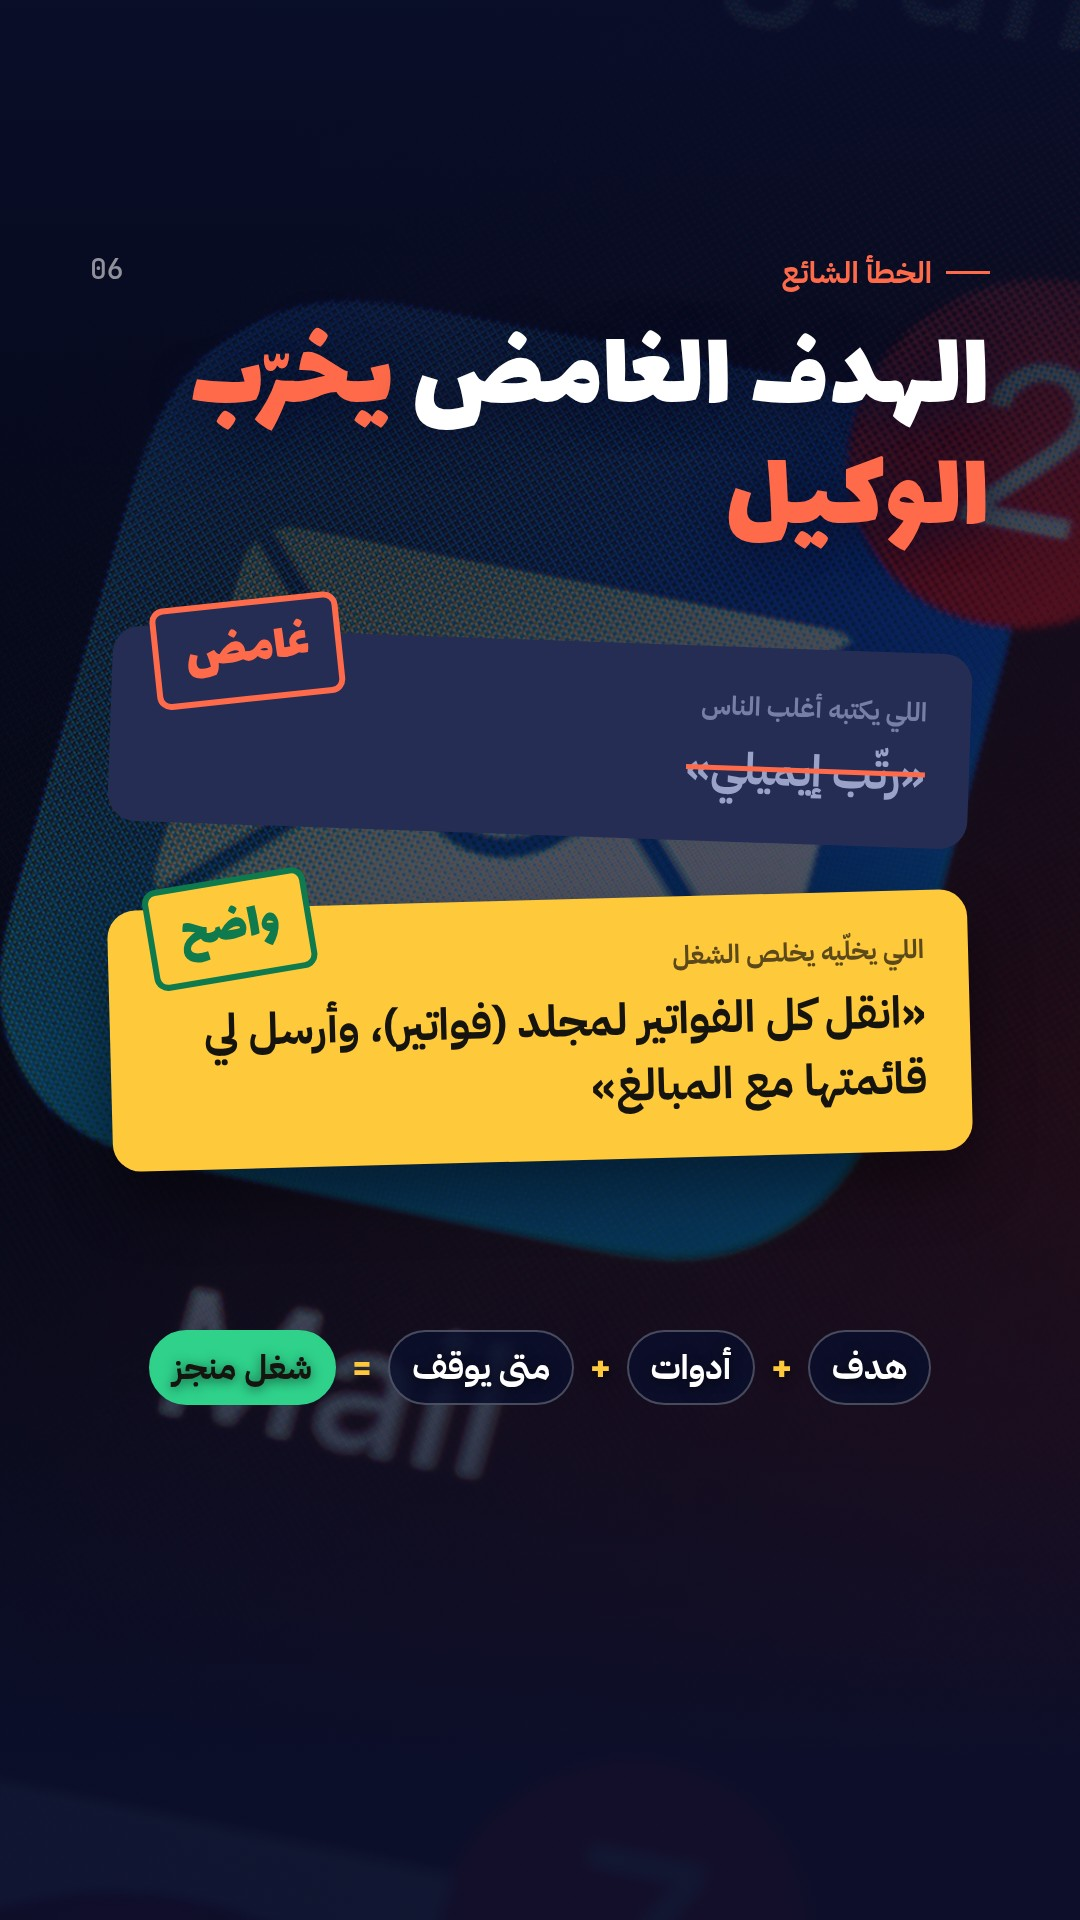
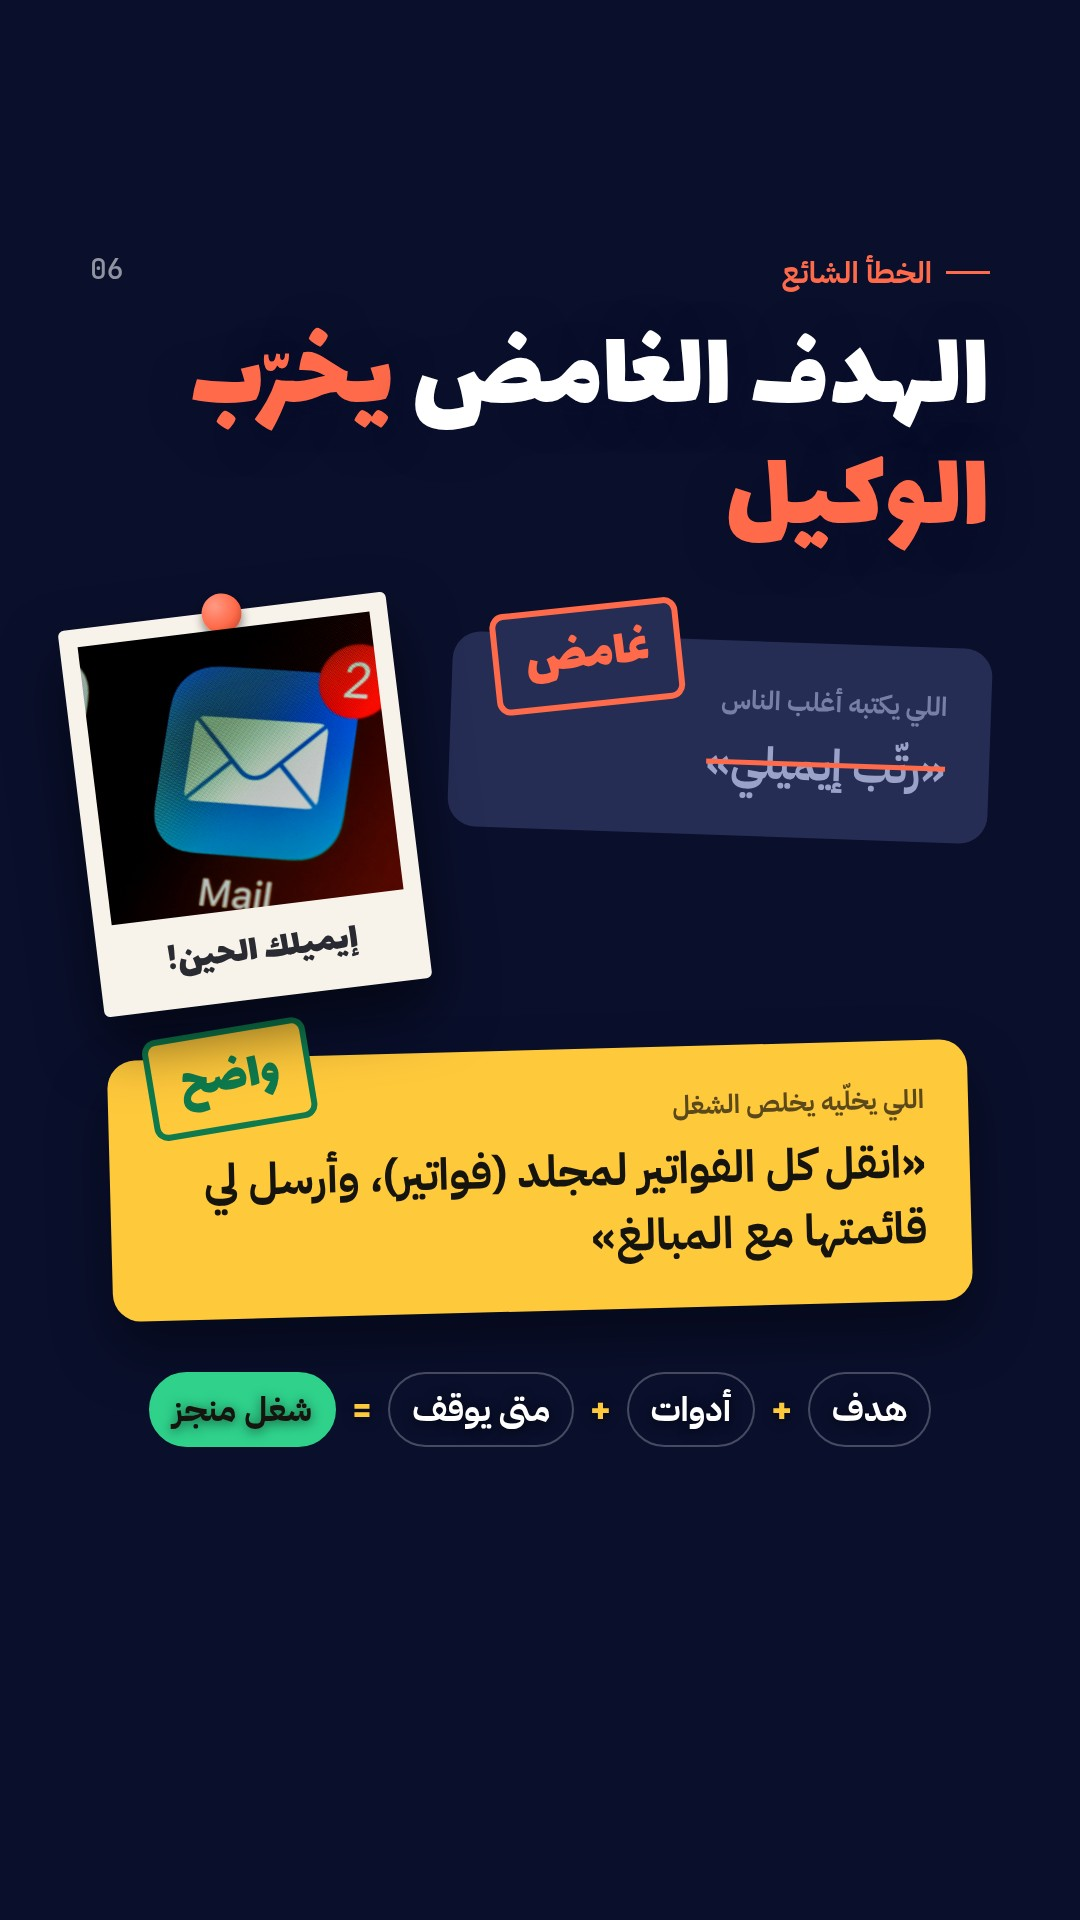
كاروسيل اليوم ٣٠: صورة البريد كبولارويد مثبّت بدل الخلفية (تنويع شكل الصورة)
Claude-Session: https://claude.ai/code/session_01EgEZRcQa5qrBxqbudDi5cV

Changed region(s): [[0.0, 0.125, 1.0, 0.7812]]

diff --git a/output/2026-09-25/design/design.html b/output/2026-09-25/design/design.html
@@ -169,6 +169,17 @@ body{background:#000;font-family:'IBM Plex Sans Arabic','Cairo',sans-serif;-webk
   background:rgba(10,15,44,.75);border:2px solid rgba(255,255,255,.22);color:#fff;font:700 28px 'IBM Plex Sans Arabic'}
 .s6 .bgph{object-position:50% 50%;filter:saturate(.95) brightness(.8)}
 .s6 .tint{position:absolute;inset:0;background:linear-gradient(180deg,rgba(10,15,44,.92) 0%,rgba(10,15,44,.62) 30%,rgba(10,15,44,.5) 55%,rgba(10,15,44,.7) 75%,rgba(10,15,44,.95) 92%)}
+
+.polaroid{position:absolute;top:610px;left:80px;width:330px;background:#F7F3EA;padding:18px 18px 0;border-radius:6px;transform:rotate(-7deg);
+  box-shadow:0 30px 60px rgba(0,0,0,.55);z-index:3}
+.polaroid .phw{height:280px;overflow:hidden}
+.polaroid img{display:block;width:100%;height:100%;object-fit:cover;object-position:42% 45%;transform:scale(1.45);transform-origin:40% 22%;filter:saturate(1.05) contrast(1.05)}
+.polaroid span{display:block;text-align:center;padding:14px 0 18px;font:400 38px 'Lalezar';color:#2A2A33}
+.polaroid .pin{position:absolute;top:-18px;left:50%;transform:translateX(-50%);width:40px;height:40px;border-radius:50%;
+  background:radial-gradient(circle at 35% 30%,#FF9A85,var(--coral) 55%,#B23A22);box-shadow:0 6px 10px rgba(0,0,0,.45)}
+.s6 .c1{left:450px;right:90px}
+.s6 .c2{top:1050px}
+.s6 .formula{top:1372px}
 </style>
 </head>
 <body>
@@ -288,10 +299,10 @@ body{background:#000;font-family:'IBM Plex Sans Arabic','Cairo',sans-serif;-webk
 
 <!-- ٦ الخطأ الشائع -->
 <section class="slide s6">
-  <img class="bgph" src="assets/mail.jpg"><div class="tint"></div>
   <div class="kick" style="color:var(--coral)"><i></i>الخطأ الشائع</div>
   <div class="pg" style="color:#fff">06</div>
   <h2 class="disp">الهدف الغامض <em>يخرّب الوكيل</em></h2>
+  <div class="polaroid"><i class="pin"></i><div class="phw"><img src="assets/mail.jpg"></div><span>إيميلك الحين!</span></div>
   <div class="card c1"><div class="stamp">غامض</div><div class="tag">اللي يكتبه أغلب الناس</div><div class="q">«رتّب إيميلي»</div></div>
   <div class="card c2"><div class="stamp">واضح</div><div class="tag">اللي يخلّيه يخلص الشغل</div>
     <div class="q">«انقل كل الفواتير لمجلد (فواتير)، وأرسل لي قائمتها مع المبالغ»</div></div>
